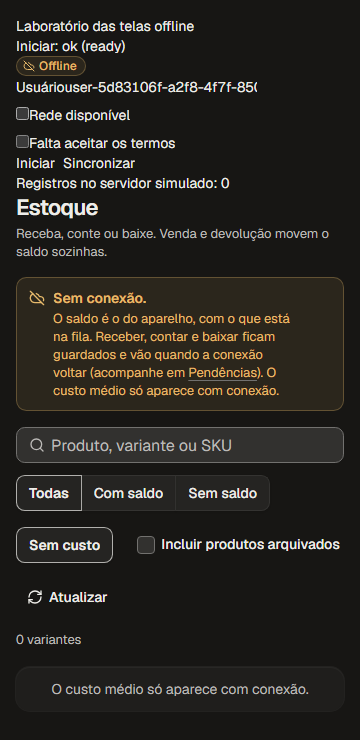
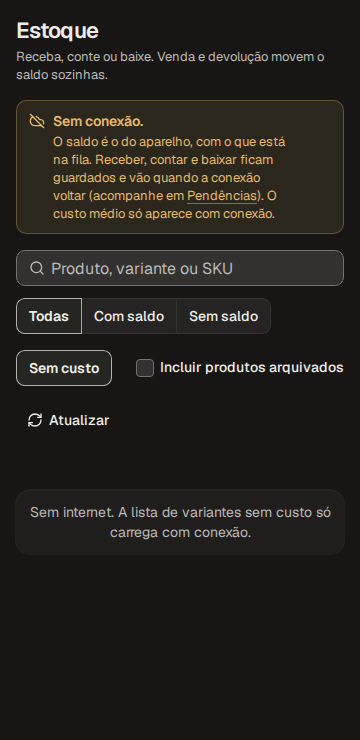
[t294] capturas: Estoque sem internet com Sem custo e Produtos por endereço com o servidor fora

diff --git a/LEIAME.md b/LEIAME.md
@@ -1,0 +1,11 @@
+# t294: capturas da rodada do PR 281
+
+Tiradas sobre o head `59d65c5808bfd689ceed77b604fc0b956f389b8b` (feat/v51-t286), depois do último commit, a 360x740 e 1280x800, nos temas claro e escuro. Servidor e laboratório simulados pelo teste (Playwright, chromium-desktop, build offline-poc).
+
+| Arquivo (prefixo) | Estado |
+|---|---|
+| `estoque-sem-custo-sem-internet-*` | Estoque aberto por `?filtro=sem-custo`, sem rede: sem contagem; lista diz "Sem internet. A lista de variantes sem custo só carrega com conexão." (laboratório das telas offline) |
+| `produtos-produto-erro-*` | `/products?produto=<uuid>` com o servidor fora: um alerta só, o da lista, com "Tentar novamente" |
+| `produtos-produto-recuperado-*` | Mesmo endereço depois do servidor voltar e do "Tentar novamente": painel do produto aberto (o foco no título é provado no e2e, não aparece na imagem) |
+
+Substituem `estoque-sem-custo-sem-internet-*` e `produtos-produto-erro-*` da captura anterior (af38de5).
